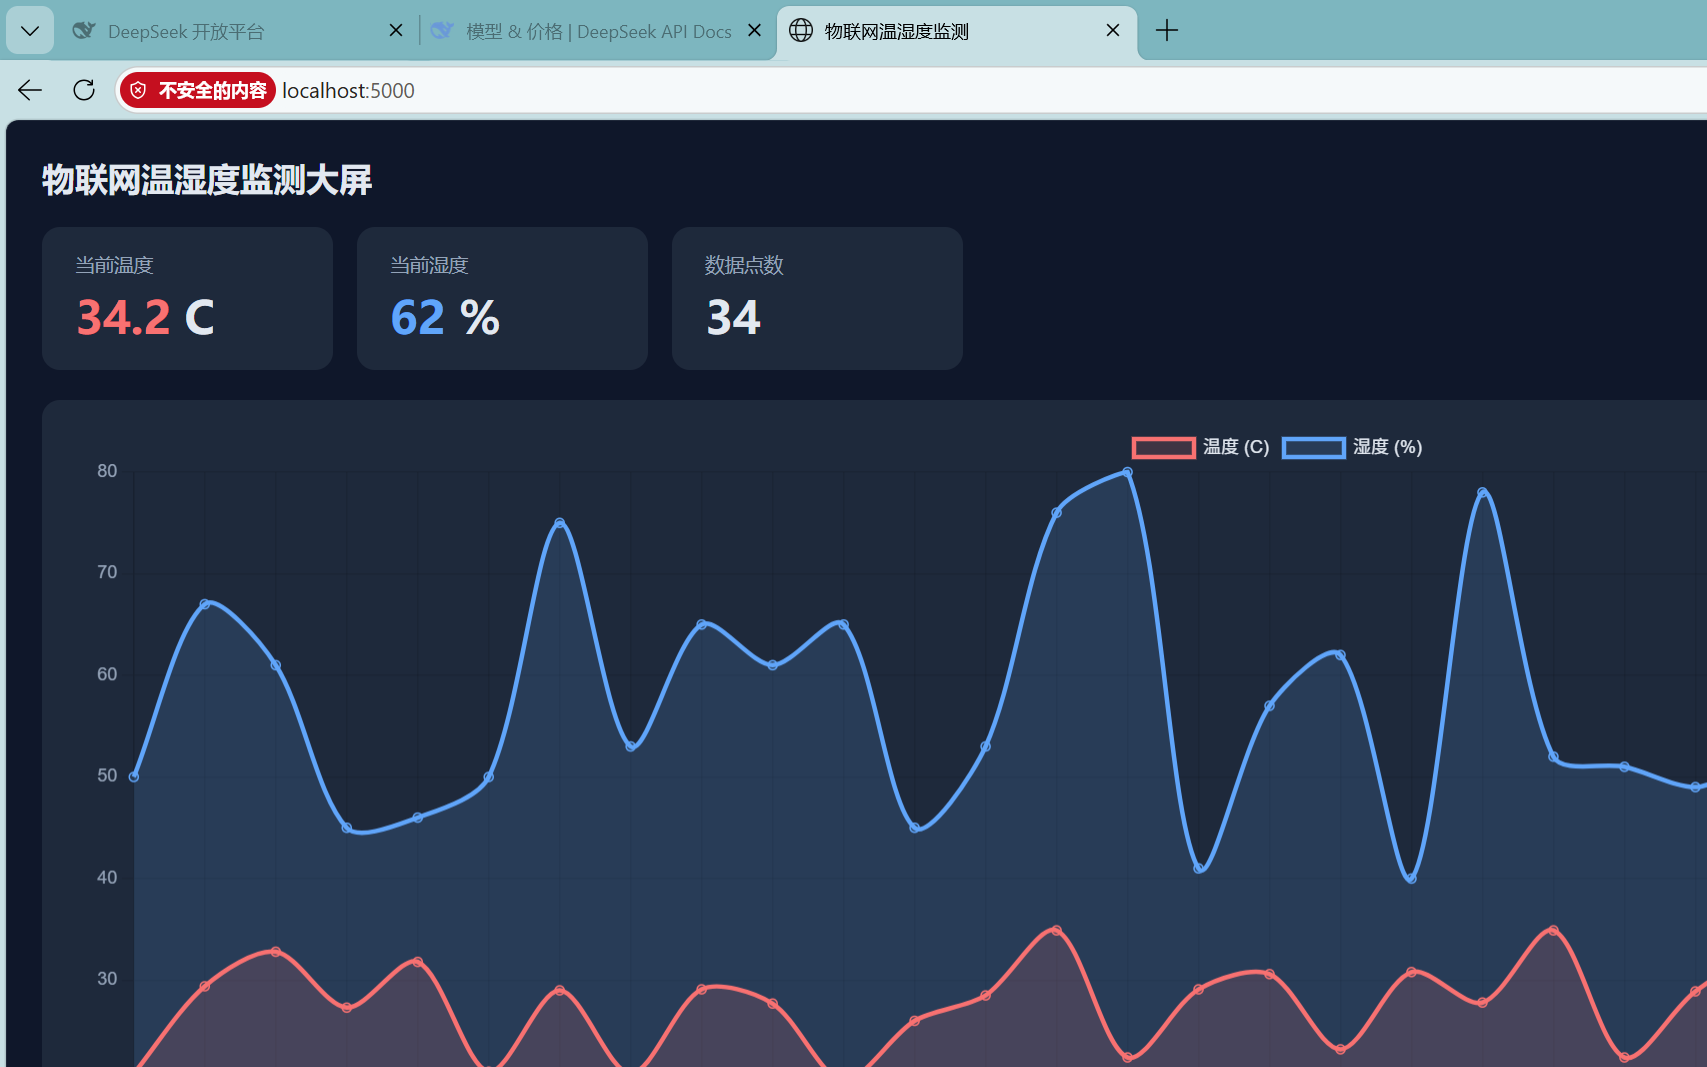
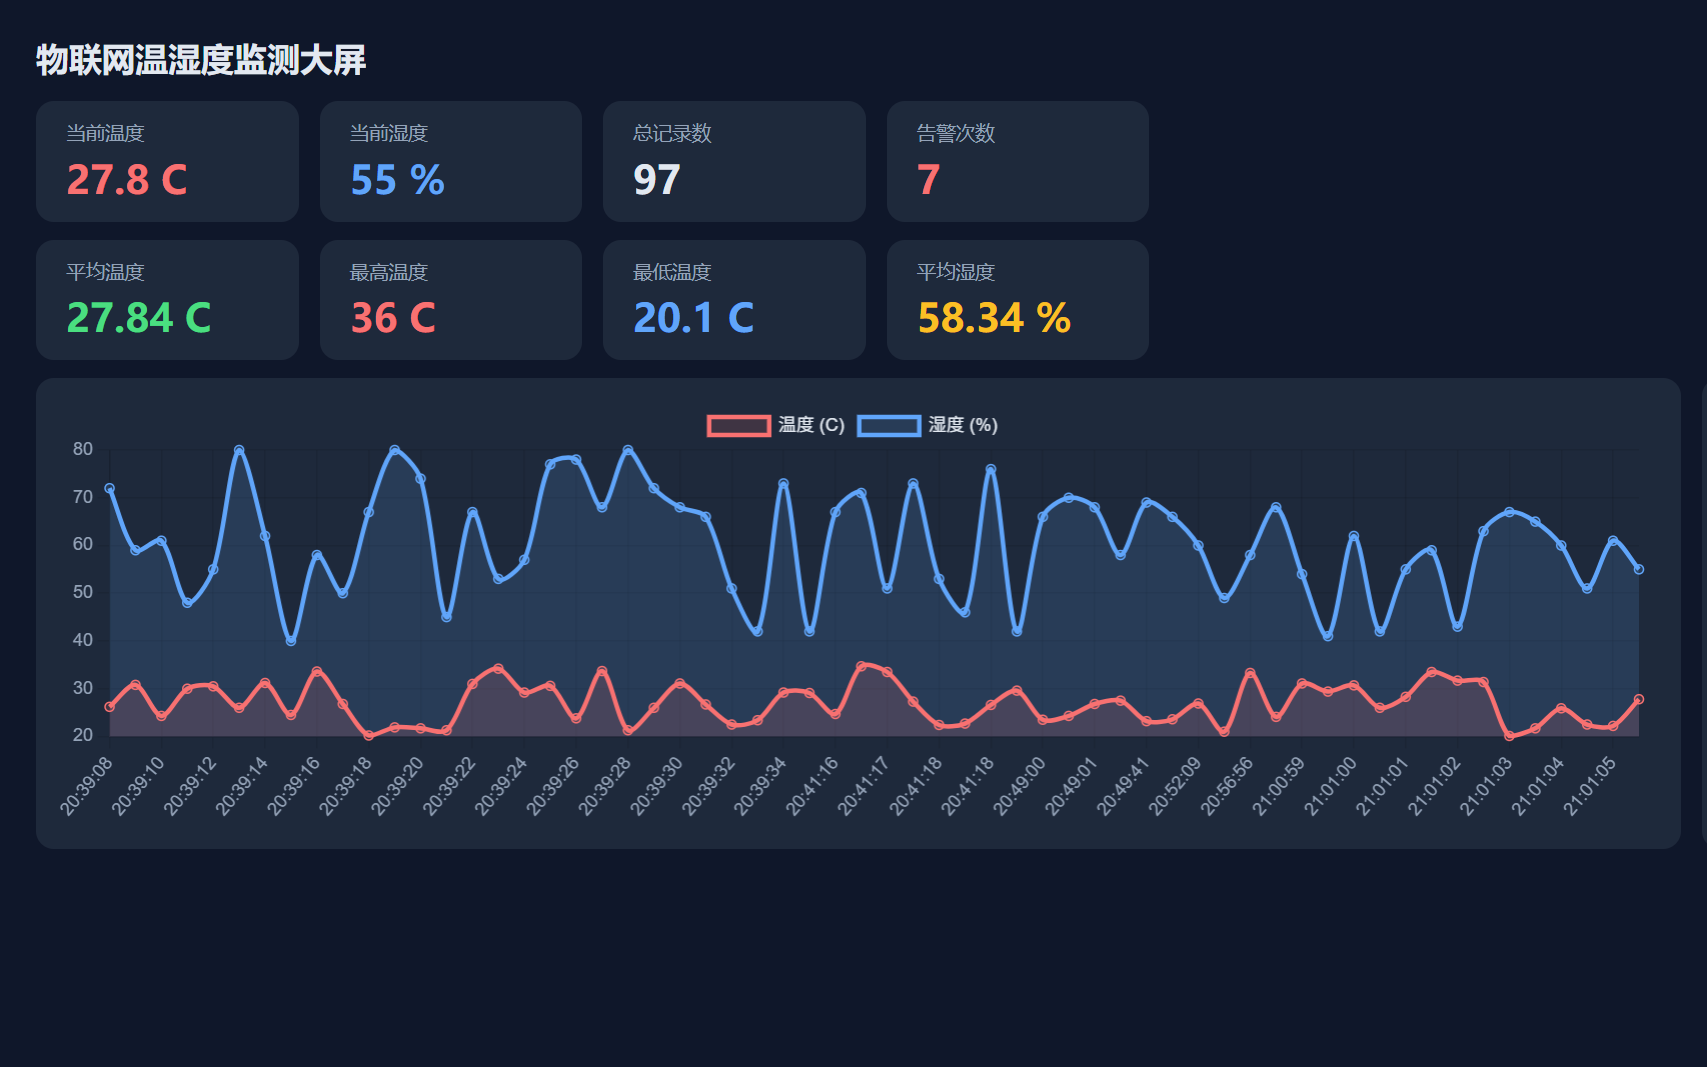
升级 README 并更新大屏效果截图

diff --git a/README.md b/README.md
@@ -1,33 +1,38 @@
 # 物联网温湿度监测系统
 
-一个端到端的物联网数据采集与可视化项目：模拟传感器采集数据 → MQTT 上报 → 服务器订阅处理 → 网页实时展示。
+一个**端到端**的物联网数据采集与可视化项目：模拟传感器采集 → MQTT 上报 → 服务端处理入库 → 网页实时展示与告警。
 
 ![大屏效果](docs/dashboard.png)
 
-## ✨ 功能
+## ✨ 功能特性
 
-- **数据采集**：定时采集温湿度数据（支持命令行参数配置采集次数与间隔）
-- **MQTT 上报**：通过 MQTT 协议发布 JSON 数据到指定主题
-- **服务端处理**：订阅主题，反序列化数据，持久化到 JSON Lines 日志
-- **阈值告警**：温度超过阈值时实时告警
-- **实时可视化**：Flask + Chart.js 网页大屏，实时曲线 + 数字卡片（每 2 秒刷新）
-- **模块化设计**：采集、判断、统计逻辑封装为独立模块 `sensor_lib.py`
+- **数据采集**：定时采集温湿度数据，支持命令行参数配置采集次数与间隔
+- **MQTT 通信**：设备端发布 JSON 数据到主题，服务端订阅处理（发布/订阅解耦）
+- **数据持久化**：存入 **SQLite 数据库**（`readings` 表），支持高效查询与统计
+- **历史查询与统计**：提供 `/api/history`、`/api/stats` 接口（平均值/最高/最低/总数）
+- **实时可视化**：Flask + Chart.js 网页大屏，实时曲线 + 数字卡片 + 历史趋势
+- **告警系统**：超阈值自动告警，写入 `alerts` 表；**告警抑制**（冷却时间）防止告警风暴
+- **断线重连**：MQTT 客户端自动重连，采用**退避策略**（1s→10s）避免雪崩
+- **离线缓存补发**：断网期间数据先存本地队列，网络恢复后自动补发，**不丢数据**
 
 ## 🏗 系统架构
 
 ```
 ┌──────────────┐   发布    ┌────────────┐   订阅    ┌────────────────────┐
-│ 设备端        │ ───────> │  MQTT      │ ───────> │  服务器端            │
+│ 设备端        │ ───────> │  MQTT      │ ───────> │  服务端             │
 │ sensor_      │          │  Broker    │          │  data_collector.py │
-│ publisher.py │          │ (mosquitto)│          │  订阅→落盘→告警      │
-└──────────────┘          └────────────┘          └────────────────────┘
-                                                          │
-                                                          │
-                                                  ┌───────▼────────┐
-                                                  │ 网页大屏         │
-                                                  │ dashboard.py    │
-                                                  │ Flask + Chart.js│
-                                                  └────────────────┘
+│ publisher.py │          │ (mosquitto)│          │  dashboard.py      │
+│ (离线缓存)    │          └────────────┘          └─────────┬──────────┘
+└──────────────┘                                            │
+                                                   ┌────────▼────────┐
+                                                   │  SQLite 数据库    │
+                                                   │ readings/alerts │
+                                                   └────────┬────────┘
+                                                            │
+                                                   ┌────────▼────────┐
+                                                   │ 网页大屏 (Flask)  │
+                                                   │ 实时曲线/统计/告警 │
+                                                   └─────────────────┘
 ```
 
 ## 🛠 技术栈
@@ -37,6 +42,7 @@
 | 语言 | Python 3.10 |
 | 通信协议 | MQTT (paho-mqtt)、HTTP |
 | 消息中间件 | Mosquitto Broker |
+| 数据存储 | SQLite3（嵌入式数据库） |
 | Web 框架 | Flask |
 | 前端图表 | Chart.js |
 | 数据格式 | JSON / JSON Lines / CSV |
@@ -46,16 +52,16 @@
 
 ```
 iot-lab/
-├── sensor_lib.py          # 传感器数据模块(采集/告警判断/统计)
-├── sensor_publisher.py    # 设备端: 采集并发布数据到 MQTT
-├── data_collector.py      # 服务器端: 订阅数据、落盘、告警
-├── dashboard.py           # 网页大屏(Flask + MQTT)
+├── sensor_lib.py          # 传感器数据模块(采集/判断/统计)
+├── db.py                  # SQLite 存储模块(readings/alerts 表)
+├── sensor_publisher.py    # 设备端: 采集+发布(含离线缓存补发)
+├── data_collector.py      # 服务端: 订阅+入库+告警
+├── dashboard.py           # 网页大屏(Flask + MQTT + SQLite)
+├── query_db.py            # 命令行 SQL 查询工具(练习/排障)
 ├── collect_tool.py        # 命令行采集工具(定时采集+报告)
-├── collect.sh             # Shell 版采集脚本
 ├── start_broker.sh        # 一键启动 MQTT Broker
 ├── start_demo.sh          # 一键启动完整演示
-├── docs/
-│   └── dashboard.png      # 大屏效果图
+├── docs/dashboard.png     # 大屏效果截图
 └── README.md
 ```
 
@@ -69,21 +75,45 @@ iot-lab/
 cd ~/iot-lab
 nohup python3 dashboard.py > /tmp/dashboard.log 2>&1 &
 
-# 3. 浏览器打开
-#    http://localhost:5000
+# 3. 浏览器打开 http://localhost:5000
 
-# 4. 模拟设备上报数据
+# 4. 模拟设备上报数据(次数 间隔秒)
 python3 sensor_publisher.py 30 1
 
-# 5. 服务端订阅并落盘(可选)
+# 5. 服务端订阅入库(可选, 与大屏二选一或并存)
 python3 data_collector.py
 ```
+
+## 🔍 运维/排障
+
+```bash
+# 查询数据库统计
+python3 query_db.py
+
+# 查询温度最高的 3 条
+python3 query_db.py "SELECT time, temp FROM readings ORDER BY temp DESC LIMIT 3"
+
+# 查询告警记录
+python3 query_db.py "SELECT * FROM alerts ORDER BY id DESC LIMIT 5"
+
+# 查看大屏日志(含断线重连记录)
+tail -f /tmp/dashboard.log
+```
+
+## 💡 关键技术点（面试可展开）
+
+1. **发布/订阅解耦**：设备端与服务端互不感知，只依赖 Broker 与主题
+2. **主题设计**：`iot/xcn666/#` 通配符订阅 vs 精确订阅的取舍
+3. **告警抑制**：冷却时间避免告警风暴；**数据不丢，仅告警去重**
+4. **退避重连**：1s→10s 指数退避，避免海量设备同时重连打垮服务端
+5. **离线补传**：断网写入本地队列，恢复后先补发再采新，保证数据完整与时序
+6. **存储分层**：JSON Lines 便于追加日志，SQLite 便于查询统计
 
 ## 🔭 后续计划
 
 - [ ] 接入真实硬件（ESP32 + DHT22 温湿度传感器 + OLED 显示）
 - [ ] 数据接入云平台（阿里云 IoT / EMQX Cloud）
-- [ ] 增加历史数据查询与告警推送
+- [ ] 告警推送（微信/钉钉/邮件通知）
 
 ## 👤 作者
 
